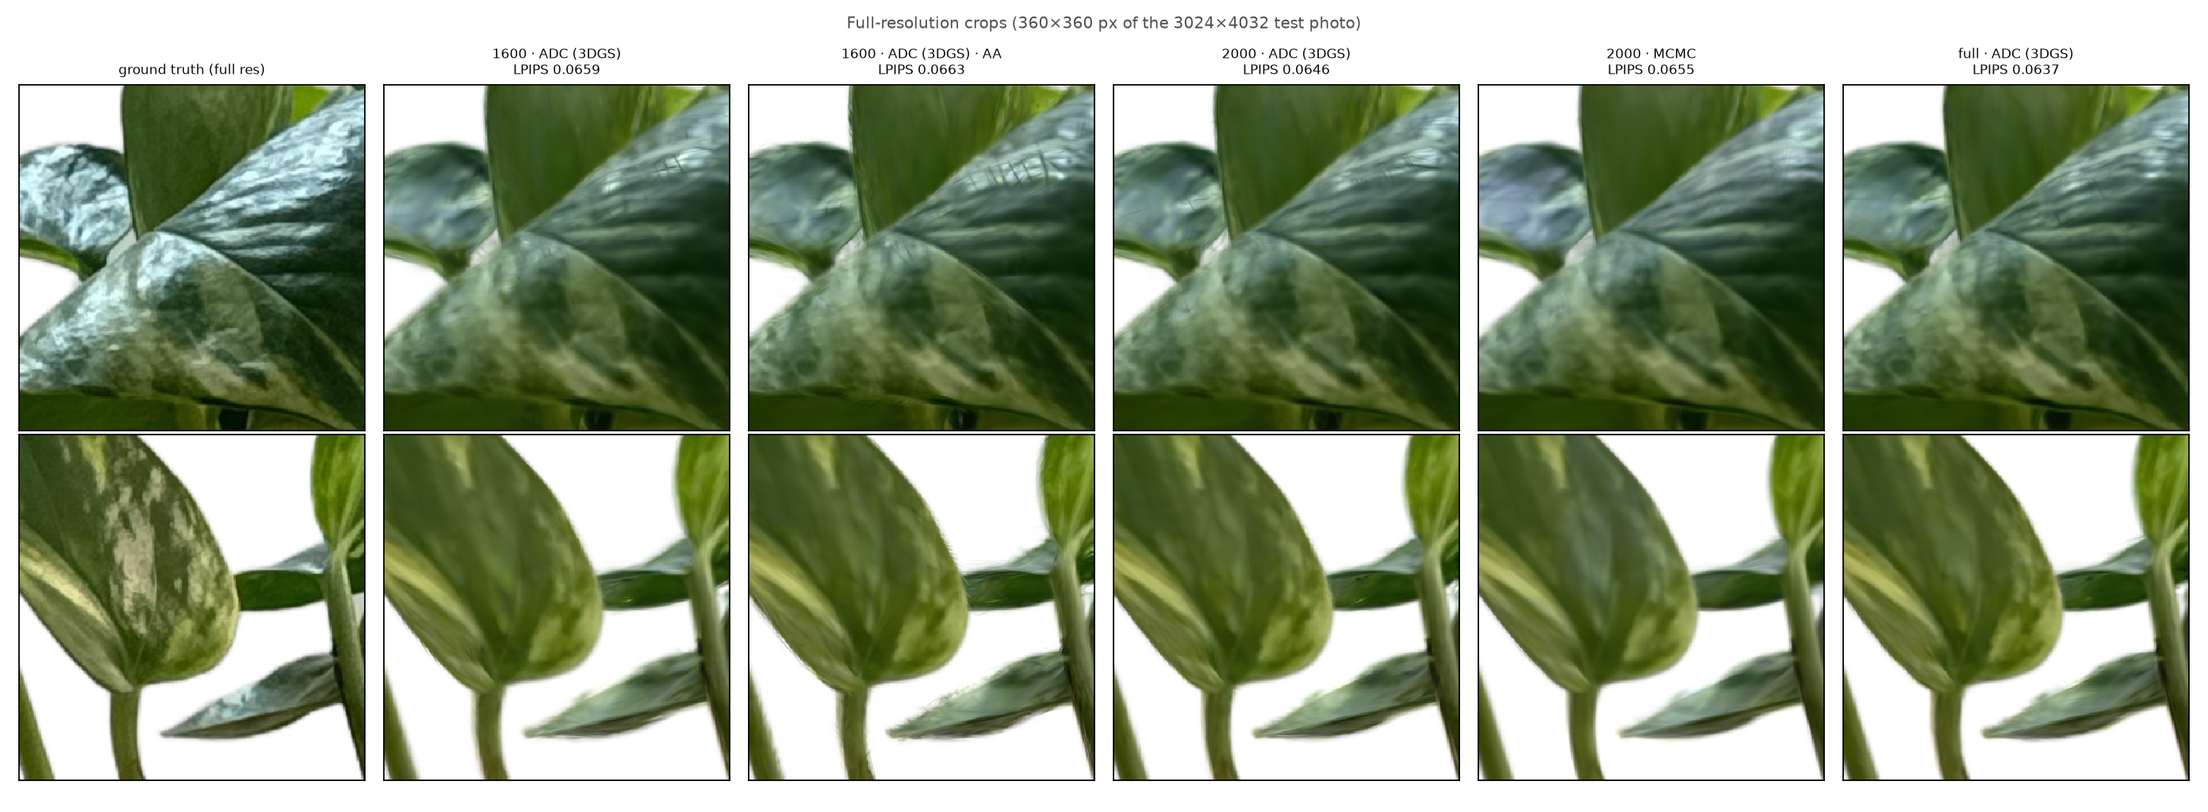
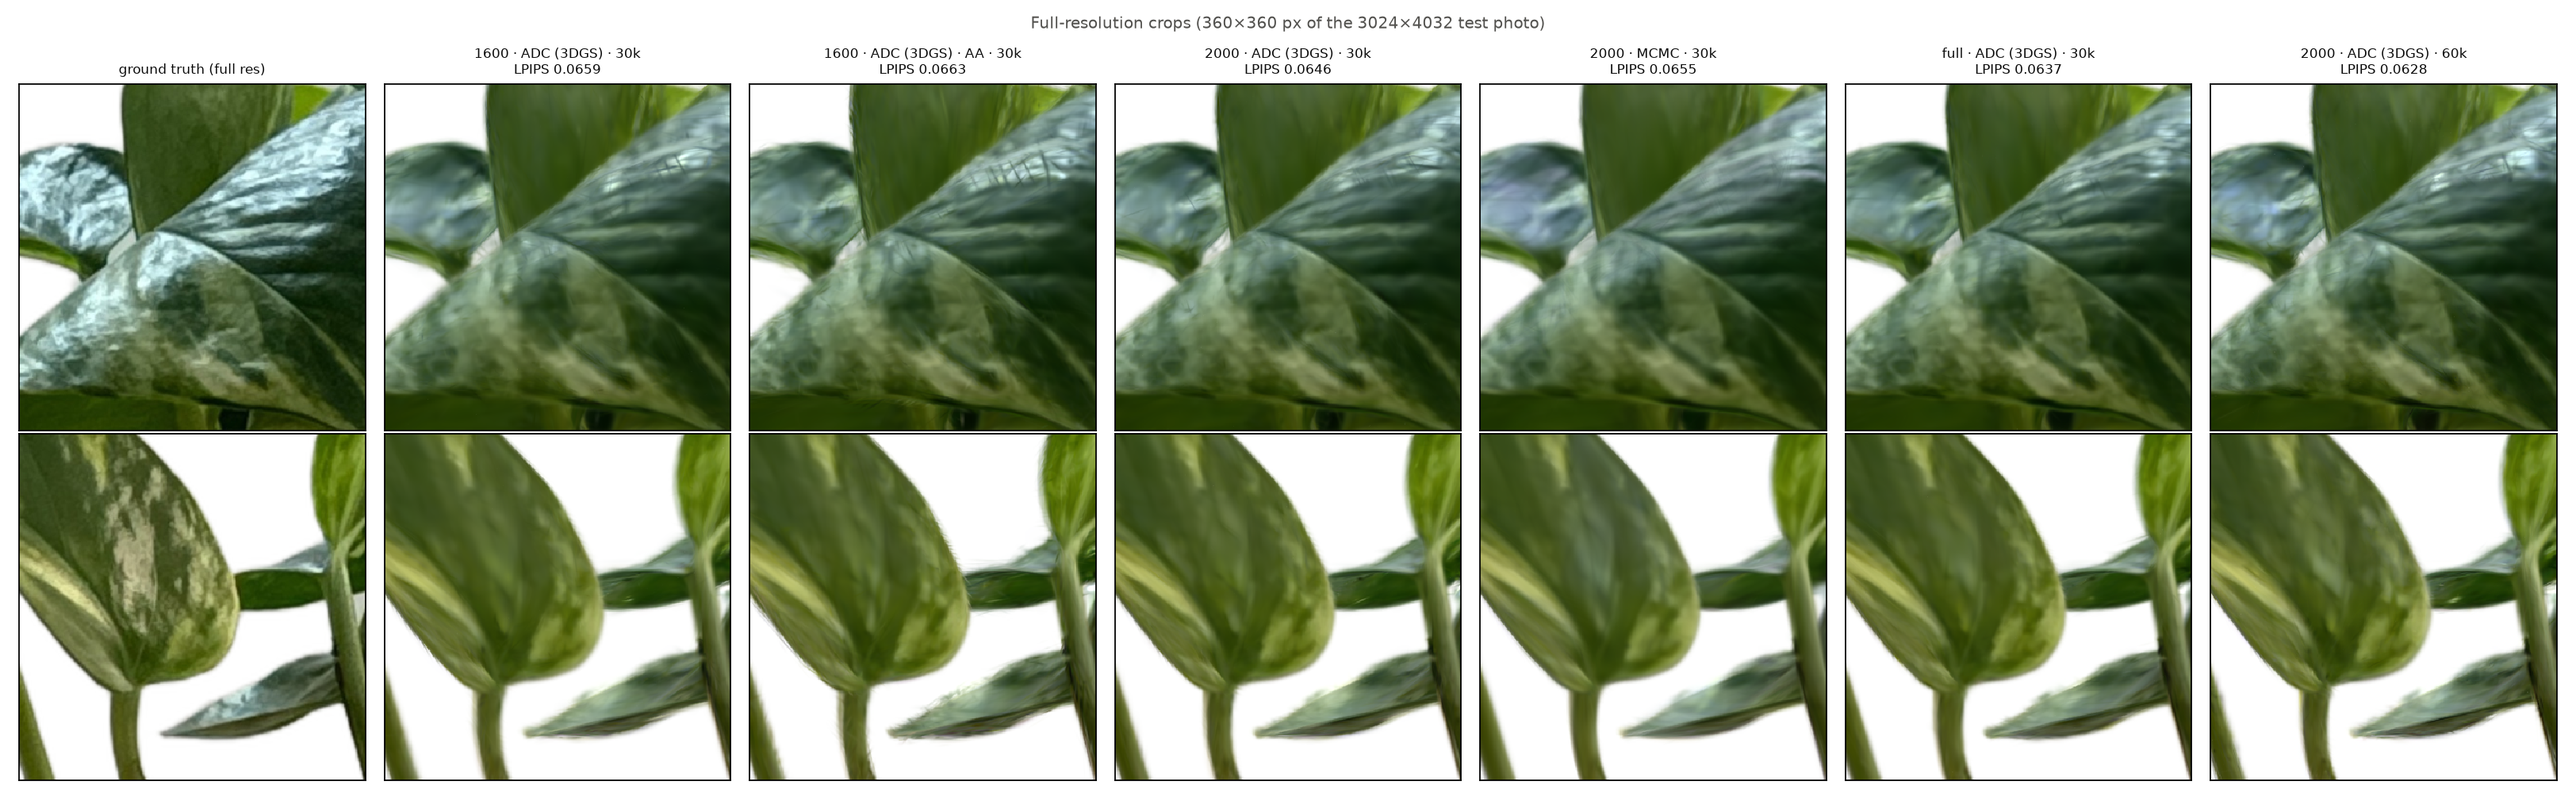
Stage 8: densification x resolution x schedule study; best = 2000 px x 60k (LPIPS 0.0628 at full res)
- 9 runs scored on the full-res test photos; table with PSNR/SSIM/LPIPS/VRAM/it/s/time
- training-only VRAM: live measurement + replay from final checkpoints + resident caches
- crops at full resolution (AA edge check), LPIPS vs time; README + detailed notes

diff --git a/scripts/measure_train_peak.py b/scripts/measure_train_peak.py
@@ -1,0 +1,63 @@
+"""Training-only peak VRAM of finished runs, measured after the fact.
+
+    python -m scripts.measure_train_peak outputs/<run> [...]
+Runs whose metrics.json predates ``peak_mem_train_GB`` report a peak that includes the
+periodic full-resolution evaluation. This replays 10 full training steps (render at the
+run's training resolution with its settings, L1+SSIM+mask loss, backward, Adam on every
+parameter) from the run's *final* checkpoint - the largest the model ever was, since all
+densification here grows N until 15-25k iterations - and writes the peak into metrics.json
+as ``peak_mem_train_GB`` (with ``peak_mem_train_source: "replay"``).
+"""
+import json
+import sys
+from pathlib import Path
+
+import torch
+from omegaconf import OmegaConf
+
+from src.camera import load_colmap
+from src.gaussians import Gaussians
+from src.losses import photometric_loss
+from src.run import REPO_ROOT
+from src.train import get_renderer
+
+
+def replay(run: Path) -> float:
+    cfg = OmegaConf.load(run / "config.yaml")
+    d = cfg.data
+    model = Gaussians.from_state_dict(torch.load(run / "ckpt.pt", map_location="cuda", weights_only=False)["model"]).cuda()
+    opts = [torch.optim.Adam([p], lr=1e-5, eps=1e-15) for p in model.params.values()]
+    e = load_colmap(REPO_ROOT / d.path, res=str(d.res), model=d.model, test_every=d.test_every, load_split="test")
+    render_fn = get_renderer(cfg)
+    bg = torch.tensor(list(d.bg), device="cuda")
+    torch.cuda.empty_cache(); torch.cuda.reset_peak_memory_stats()
+    for i in range(10):
+        cam = e["test_cams"][i % len(e["test_cams"])].to("cuda")
+        img, alpha, _ = render_fn(model, cam, bg, model.sh_degree)
+        ref = e["test_images"][i % len(e["test_cams"])].cuda().float() / 255
+        m = e["test_masks"][i % len(e["test_cams"])].cuda().float() / 255
+        ref = m[..., None] * ref + (1 - m[..., None]) * bg
+        loss = photometric_loss(img, ref, cfg.train.lambda_dssim) + cfg.train.get("lambda_mask", 0) * (alpha - m).abs().mean()
+        loss.backward()
+        for o in opts:
+            o.step(); o.zero_grad(set_to_none=True)
+    torch.cuda.synchronize()
+    return torch.cuda.max_memory_allocated() / 2**30
+
+
+def main():
+    for run in map(Path, sys.argv[1:]):
+        mf = run / "metrics.json"
+        m = json.loads(mf.read_text())
+        if "peak_mem_train_GB" in m:
+            print(f"{run.name}: already has peak_mem_train_GB = {m['peak_mem_train_GB']:.2f}")
+            continue
+        peak = replay(run)
+        m.update(peak_mem_train_GB=peak, peak_mem_train_source="replay of 10 steps from the final checkpoint")
+        mf.write_text(json.dumps(m, indent=1))
+        print(f"{run.name}: training peak {peak:.2f} GB (was {m['peak_mem_GB']:.2f} incl. evaluation)", flush=True)
+        torch.cuda.empty_cache()
+
+
+if __name__ == "__main__":
+    main()

diff --git a/scripts/plot_stage8.py b/scripts/plot_stage8.py
@@ -67,8 +67,6 @@ def main():
         print(f"| {res} | {r['method']} | {r['cap']} | {'✓' if r['aa'] else ''} | {r['iters'] // 1000}k | "
               f"{r['psnr']:.2f} | {r['psnr_masked']:.2f} | {r['ssim']:.4f} | {r['lpips']:.4f}{star} | "
               f"{r['n'] / 1e3:.0f}k | {r['vram']:.1f} GB{'*' if r['vram_incl_eval'] else ''} | {its} | {r['minutes']:.0f} min |")
-    print("\n\\* peak includes the periodic full-resolution evaluation (12 MP renders + LPIPS), "
-          "not only training; runs without * report the training-only peak.")
     print(f"\nbest (LPIPS): {best['run'].name}")
 
     # ---- full-res crops: GT + selected runs, one test view, two detail windows
@@ -96,7 +94,8 @@ def main():
         if all(abs(y - yy) > s or abs(x - xx) > s for yy, xx in wins):
             wins.append((y, x)); break
     cols = [("ground truth (full res)", gt)] + [
-        (f"{r['res']} · {r['method']}{' · AA' if r['aa'] else ''}\nLPIPS {r['lpips']:.4f}", load(r)[1]) for r in pick]
+        (f"{r['res']} · {r['method']}{' · AA' if r['aa'] else ''} · {r['iters'] // 1000}k\nLPIPS {r['lpips']:.4f}",
+         load(r)[1]) for r in pick]
     fig, axes = plt.subplots(2, len(cols), figsize=(2.9 * len(cols), 6.4), dpi=160)
     for c, (t, img) in enumerate(cols):
         for r_, (y, x) in enumerate(wins):

diff --git a/docs/DETAILED_NOTES.md b/docs/DETAILED_NOTES.md
@@ -802,6 +802,101 @@ in [−1, 1]); PSNR restricted to mask > 0.5; IoU of rendered α > 0.5 with mask
 
 ---
 
+## Stage 8: Pushing the T4 to maximum detail
+
+Code: [`src/densify.py`](../src/densify.py) (`MCMC`, AbsGS via `ADC(absgrad=True)`),
+[`src/train.py`](../src/train.py) (MCMC regularizers, absgrad rendering, `data.cache=cpu`,
+`eval.res`, `optimizer=selective`), [`src/evaluate.py`](../src/evaluate.py),
+[`scripts/profile_stage8.py`](../scripts/profile_stage8.py),
+[`scripts/queue_runner.sh`](../scripts/queue_runner.sh),
+[`scripts/measure_train_peak.py`](../scripts/measure_train_peak.py),
+[`scripts/plot_stage8.py`](../scripts/plot_stage8.py), configs `configs/stage8_*.yaml`.
+
+**Protocol.**
+* Everything is Stage 7 D (SfM init, mask loss, SH 0→3) unless stated.
+* Every run is scored on the same 27 held-out photos **at full resolution (3024×4032)**.
+  Models trained at lower resolution are rendered at full resolution; the Gaussians are
+  continuous. This is the common ground truth. The best run is the one with the lowest
+  LPIPS.
+* Rescored at full resolution, Stage 7 D drops from LPIPS 0.0304 to **0.0659**: the missing
+  fine texture shows up at the photo's real detail.
+
+**New methods.**
+* **AbsGS** accumulates, per Gaussian, the norm of the sum over pixels of |∂L/∂μ′| instead
+  of the norm of the summed gradient, so opposite pulls inside a large Gaussian don't
+  cancel (gsplat `absgrad`).
+* **3DGS-MCMC** (my implementation, tested to give parameters identical to gsplat's
+  `MCMCStrategy` under the same RNG):
+  * relocate dead Gaussians (o ≤ 0.005) onto live ones sampled ∝ o, with
+    o′ = 1 − (1 − o)^(1/n) and the Eq. 9 scale correction (evaluated as a polynomial in o′
+    with a precomputed coefficient table);
+  * grow by 5 % per 100 steps up to a hard cap;
+  * add noise lr·5·10⁵·σ(100(1 − o − 0.995))·Σε to the means;
+  * add L1 regularization of 0.01 on opacity and scale.
+
+**Feasibility** (one full training step, Adam included; Gaussians resampled from Stage 7 D;
+`profile_stage8.py`):
+* Memory is ~1.25 GB per million Gaussians plus a resolution term.
+* Full resolution fits ~4 M Gaussians (7.5 GB, ~1 s/step) and runs out of memory at 6 M.
+* At 2000 px: 0.18–0.67 s/step for 1–6 M Gaussians.
+* So on the T4 the limit is **time**, not memory.
+
+**Results** (30k iterations unless stated; time = training only; peak VRAM = training-only
+peak including the image caches resident on the GPU, see below):
+
+| train res | densification | cap | AA | iters | PSNR | PSNR (plant) | SSIM | LPIPS ↓ | Gaussians | peak VRAM | it/s | time |
+|---|---|---|---|---|---|---|---|---|---|---|---|---|
+| 1200×1600 | AbsGS (τ=0.0004) | — |  | 30k | 31.47 | 25.51 | 0.9677 | 0.0659 | 336k | 3.5 GB | 12.3 | 41 min |
+| 1200×1600 | ADC (3DGS) | — |  | 30k | 31.44 | 25.48 | 0.9676 | 0.0659 | 390k | 2.3 GB | 12.1 | 41 min |
+| 1200×1600 | ADC (3DGS) | — | ✓ | 30k | 31.79 | 26.15 | 0.9676 | 0.0663 | 379k | 3.5 GB | 12.2 | 41 min |
+| 1200×1600 | MCMC | 1M |  | 30k | 31.67 | 25.73 | 0.9693 | 0.0672 | 1000k | 4.1 GB | 6.3 | 79 min |
+| 1200×1600 | AbsGS (τ=0.0008) | — |  | 30k | 31.44 | 25.50 | 0.9675 | 0.0682 | 141k | 3.3 GB | 15.0 | 33 min |
+| 1500×2000 | ADC (3DGS) | — |  | 60k | 31.74 | 25.90 | 0.9687 | 0.0628 **(best)** | 454k | 4.8 GB | 8.4 | 119 min |
+| 1500×2000 | ADC (3DGS) | — |  | 30k | 31.70 | 25.91 | 0.9691 | 0.0646 | 405k | 4.7 GB | 8.6 | 58 min |
+| 1500×2000 | MCMC | 1M |  | 30k | 31.90 | 26.13 | 0.9705 | 0.0655 | 1000k | 5.2 GB | 5.0 | 101 min |
+| 3024×4032 | ADC (3DGS) | — |  | 30k | 31.92 | 26.43 | 0.9703 | 0.0637 | 388k | 4.3 GB | 2.6 | 193 min |
+
+![Crops](figures/stage8_crops.png)
+
+![LPIPS vs time](figures/stage8_lpips_vs_time.png)
+
+**Readings.**
+* **Training resolution is the main lever.** LPIPS goes 0.0659 → 0.0646 → 0.0637 for
+  1600 → 2000 → full resolution, and plant-only PSNR rises +0.95 dB. Full resolution costs
+  4.7× the time of 1600 px. The full-resolution training images (189 × 12 MP) stay in
+  pinned CPU memory and are copied per step; that costs nothing measurable at ~2.6 it/s.
+* **A longer schedule beats more pixels.** 2000 px × 60k iterations gives **LPIPS 0.0628**,
+  better than full res × 30k (0.0637) in 119 vs 193 min. PSNR barely moves (+0.04 dB): the
+  extra iterations sharpen texture rather than color.
+* **The densification method matters little at fixed resolution.**
+  * AbsGS at τ = 0.0008 (gsplat's suggestion) grows only 141k Gaussians and is worse. At
+    τ = 0.0004 it ties the 3DGS rules exactly (LPIPS 0.0659).
+  * MCMC capped at 1 M gives the best PSNR/SSIM at every resolution but worse LPIPS. The
+    crops show smoother leaf texture: many small, low-opacity Gaussians average detail out.
+* **Anti-aliasing** (Mip-Splatting 2D filter) gives +0.67 dB on the plant when a 1600 px
+  model is rendered at full resolution, with LPIPS unchanged. The crops show no blurring
+  of leaf edges.
+* **Memory.**
+  * The first runs logged a peak that included the periodic full-resolution evaluation
+    (12 MP renders + LPIPS, up to 8.4 GB). The trainer now resets the counter after each
+    evaluation and records a training-only peak.
+  * For earlier runs, that peak was reconstructed as the model + optimizer + render peak,
+    replayed for 10 steps from the final checkpoint (the largest model of the run), plus
+    the resident GPU image caches (train + test at training resolution and the
+    full-resolution evaluation set, uint8 RGB + mask).
+  * The replayed 2000 px run (4.67 GB) agrees with the live measurement of the 60k run
+    (4.79 GB, 12 % more Gaussians).
+  * Every configuration trains in **≤ 5.2 GB** of the T4's 15 GB.
+* **Throughput:** 12 it/s at 1600 px, 8.5 it/s at 2000 px, 2.6 it/s at full resolution (ADC,
+  ~400k Gaussians). MCMC at 1 M halves it.
+* **Failures on the way** (all fixed and re-run):
+  * MCMC crashed on an inherited `opacity_reset` option (configs inherit densify settings;
+    each method now receives only its own fields);
+  * the CPU-cache path indexed CPU masks with GPU indices;
+  * a concurrent Claude session's commit captured a half-applied edit of `train.py`.
+
+---
+
 ## Repository layout
 
 ```

diff --git a/README.md b/README.md
@@ -19,7 +19,7 @@ from 216 phone photos on one NVIDIA T4 (16 GB).
 | 5 | gsplat CUDA rasterizer + my densification | **lego 34.15 dB at 800²** in 15 min |
 | 6 | plant: poses, masks, loader (all GPU) | 216/216 photos posed in 10 min, 1.0 px error |
 | 7 | plant ablation (5 runs) | **32.3 dB, LPIPS 0.030** (best: + spherical harmonics) |
-| 8 | push the T4 to maximum detail | *in progress* |
+| 8 | push the T4: densification × resolution × schedule | **LPIPS 0.0628 at full res** (2000 px, 60k it., 4.8 GB, 2 h) |
 
 All metrics are on held-out views. Every number comes from a logged run (config, git
 commit, metrics) and is detailed in **[docs/DETAILED_NOTES.md](docs/DETAILED_NOTES.md)**.
@@ -63,10 +63,16 @@ as **Σ = R(q) diag(s²) R(q)ᵀ**, which stays positive semi-definite under any
 * **Plant (7).** Spherical harmonics gave the largest gain (+1.5 dB on the plant, the
   leaf sheen). The mask loss had no measurable effect against a white background.
   Random initialization comes within 0.1 dB of SfM initialization.
+* **Maximum detail (8).** Every run is scored on the full-resolution photos. Training
+  resolution and schedule matter far more than the densification method: AbsGS ties the
+  3DGS rules, and MCMC wins PSNR but loses LPIPS (smoother texture). 2000 px × 60k
+  iterations is the best LPIPS (0.0628) and beats full-resolution training in 62 % of the
+  time. Anti-aliasing doesn't blur edges, and every configuration trains in ≤ 5.2 GB:
+  time, not memory, is the limit on a T4.
 
-<p align="center"><img src="docs/figures/stage7_renders.png" width="900"><br>
-<em>Plant ablation on a held-out view. Zooms: only runs with spherical harmonics (D, E)
-reproduce the specular sheen.</em></p>
+<p align="center"><img src="docs/figures/stage8_crops.png" width="900"><br>
+<em>Full-resolution crops of a held-out photo for the main Stage 8 runs. Higher training
+resolution and a longer schedule recover the leaf mottling; MCMC is smoother.</em></p>
 
 ## Running it
 
@@ -75,7 +81,7 @@ bash scripts/setup_env.sh                                    # conda envs on /mn
 conda activate gsplat && pytest                              # 54 tests
 python -m src.train --config configs/stage5_lego_adc.yaml    # lego 800², ~15 min
 bash scripts/run_colmap.sh data/plant images_2000 incremental  # plant poses (GPU COLMAP)
-python -m src.train --config configs/stage7_D.yaml           # plant, ~40 min
+python -m src.train --config configs/stage8_base.yaml data.res=2000 train.iterations=60000  # best, ~2 h
 python -m scripts.view_splats --run outputs/<run>            # interactive viewer on :8080
 ```
 
@@ -88,7 +94,7 @@ capture instructions: [docs/CAPTURE_GUIDE.md](docs/CAPTURE_GUIDE.md).
 | [`src/gaussians.py`](src/gaussians.py) · [`src/sh.py`](src/sh.py) | parameters, Σ = R S Sᵀ Rᵀ, SfM/random init, spherical harmonics |
 | [`src/render_torch.py`](src/render_torch.py) · [`src/rasterize.py`](src/rasterize.py) | my renderer: projection, EWA, culling, compositing |
 | [`src/render_gsplat.py`](src/render_gsplat.py) | gsplat behind the same interface |
-| [`src/densify.py`](src/densify.py) | my adaptive density control |
+| [`src/densify.py`](src/densify.py) | my densification: 3DGS ADC (+AbsGS) and 3DGS-MCMC |
 | [`src/camera.py`](src/camera.py) | conventions, Blender and COLMAP loaders |
-| [`src/train.py`](src/train.py) · [`src/losses.py`](src/losses.py) | training loop, metrics |
+| [`src/train.py`](src/train.py) · [`src/evaluate.py`](src/evaluate.py) · [`src/losses.py`](src/losses.py) | training loop, evaluation at any resolution, metrics |
 | [`scripts/`](scripts/) | data pipeline, sweeps, plots, viewer |
